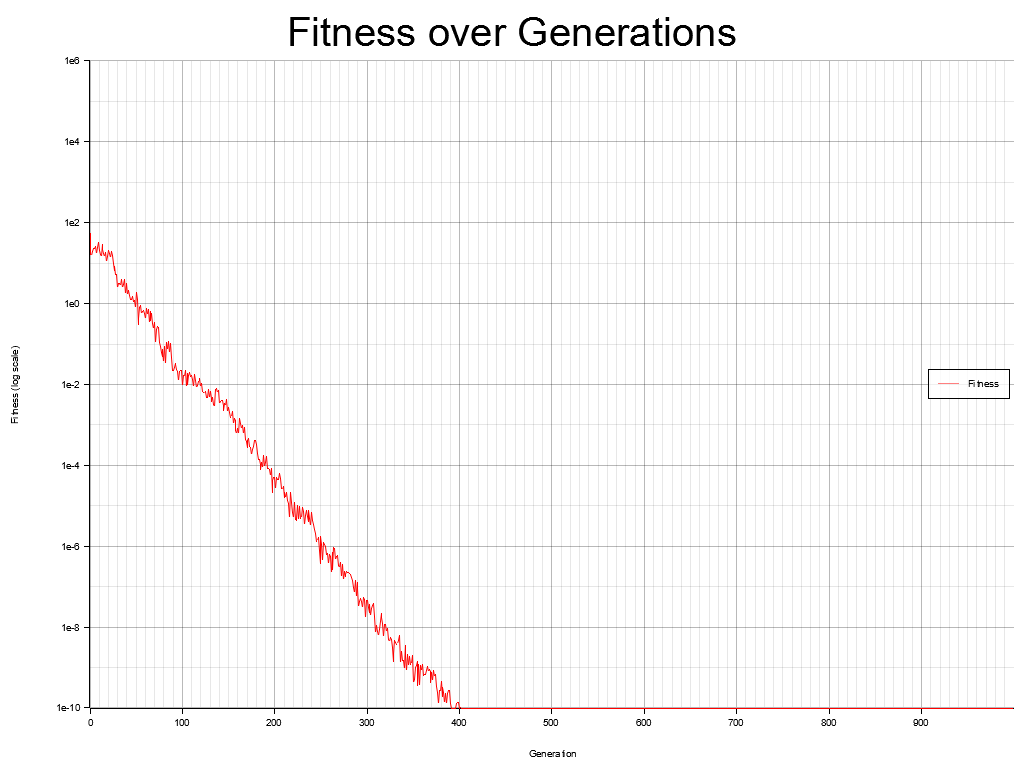
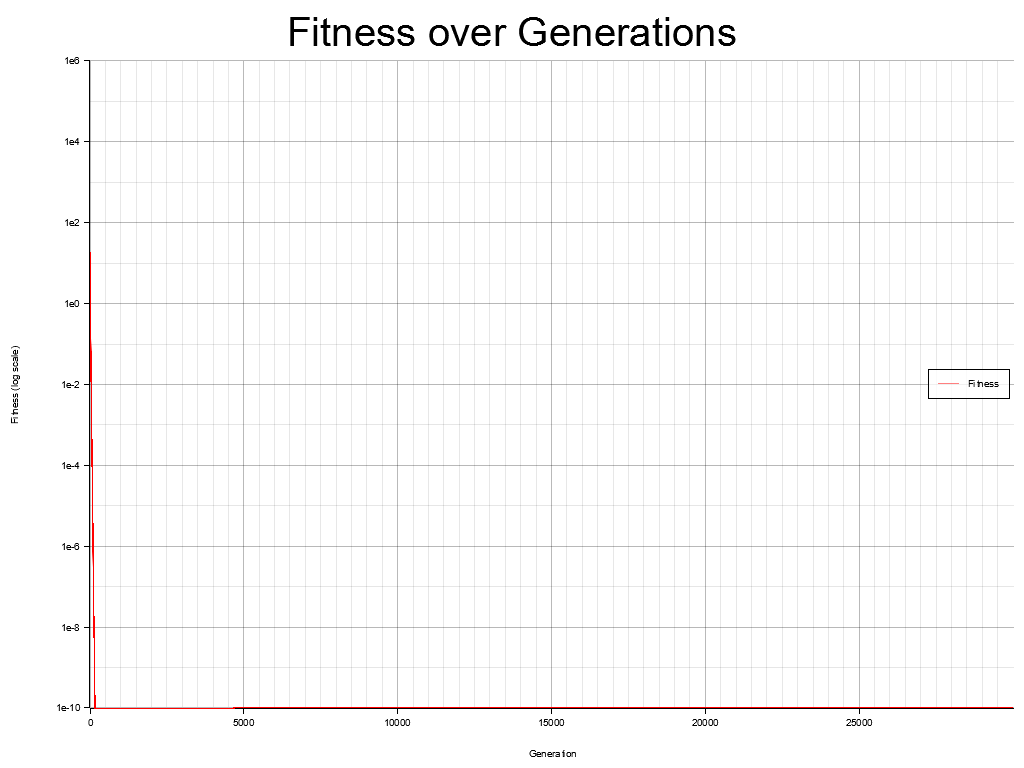
cec in R

diff --git a/src/main.rs b/src/main.rs
@@ -30,9 +30,9 @@ fn main() {
 
 fn run_for_art() {
     unsafe {
-        DIMENSIONS = 10; // Set your desired dimensions
+        DIMENSIONS = 3; // Set your desired dimensions
         LAMBDA = 4 + (3.0 * (DIMENSIONS as f64).ln()).floor() as usize;
-        MAX_GENERATIONS = 100 * DIMENSIONS;
+        MAX_GENERATIONS = 10000 * DIMENSIONS;
         MU = (LAMBDA as f64 / 2.0).floor() as usize;
         H = 6 + (3.0 * (DIMENSIONS as f64).sqrt()).floor() as usize;
         CC = 1.0 / (DIMENSIONS as f64).sqrt();
